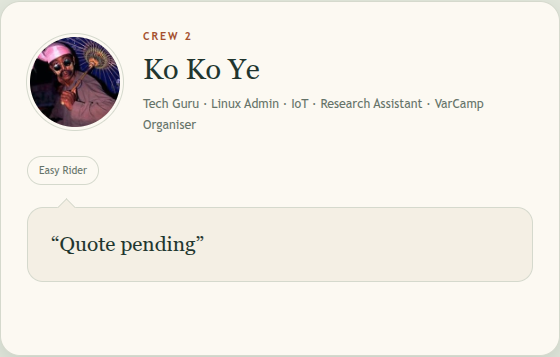
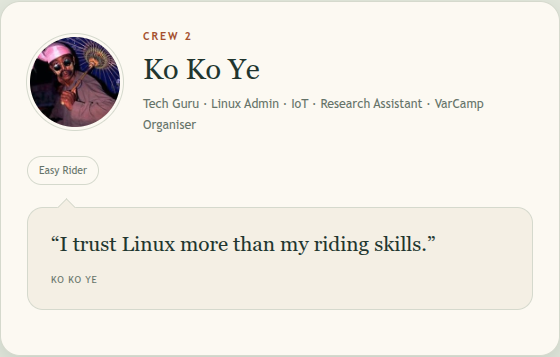
Add Ko Ko Ye crew quote

Changed region(s): [[0.0911, 0.6471, 0.7893, 0.7087], [0.0911, 0.7703, 0.1821, 0.8011]]

diff --git a/reports/crew-2.md b/reports/crew-2.md
@@ -3,7 +3,7 @@
 - Ride: Easy Rider
 - Profile: Tech Guru, Linux Admin, IoT, Research Assistant and VarCamp Organiser
 - Portrait: member image supplied in chat and stored locally as `assets/members/ko-ko-ye.png`
-- Quote: pending
+- Quote: “I trust Linux more than my riding skills.”
 - Publication: enabled from the supplied crew-profile request
 
-No contact details or invented quote were added. The square source image is preserved; the website applies its standard circular display crop.
+No contact details were added. The square source image is preserved; the website applies its standard circular display crop.
